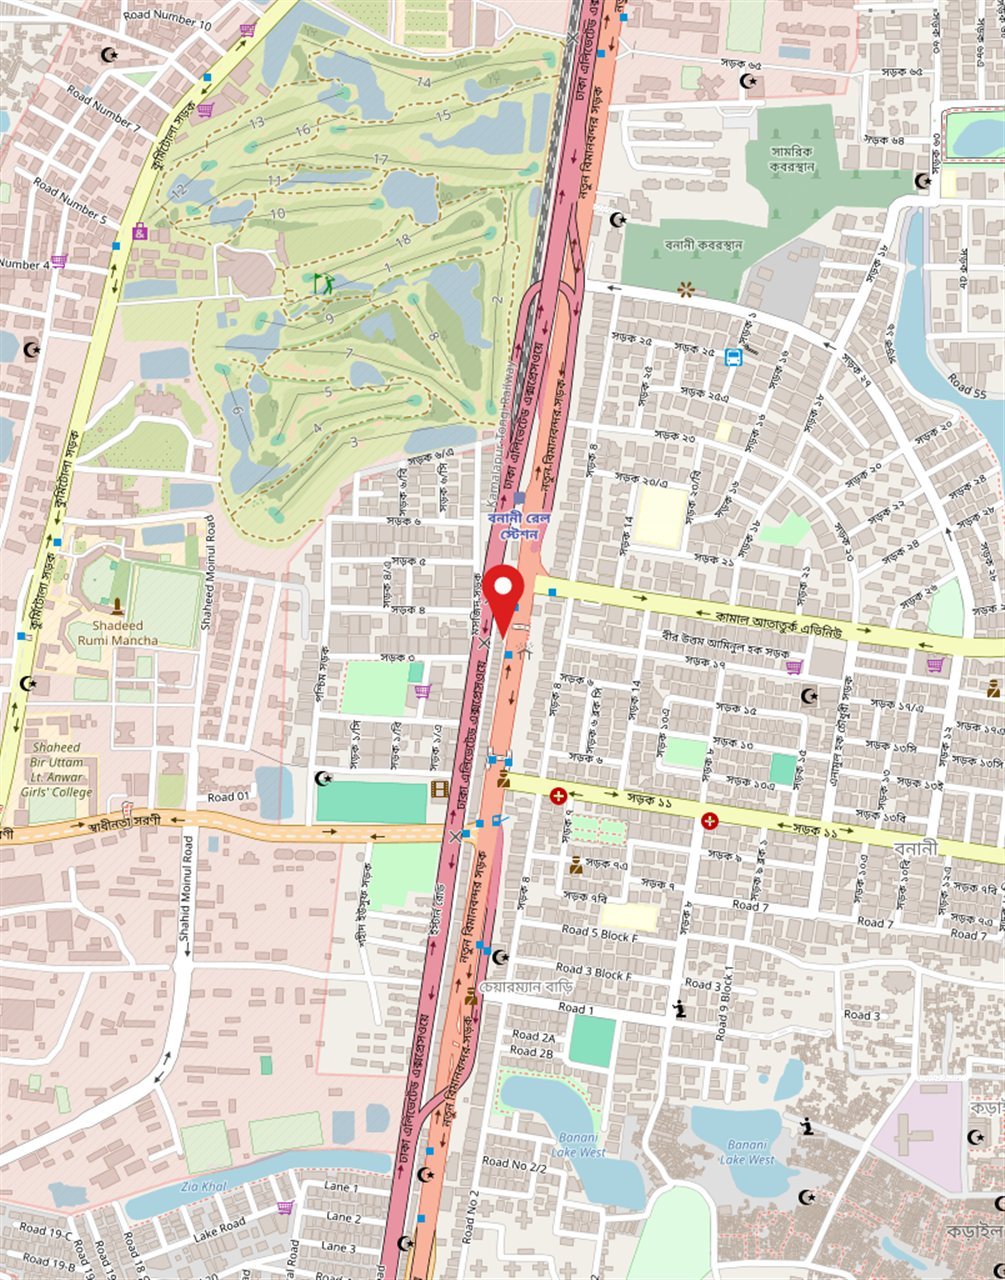
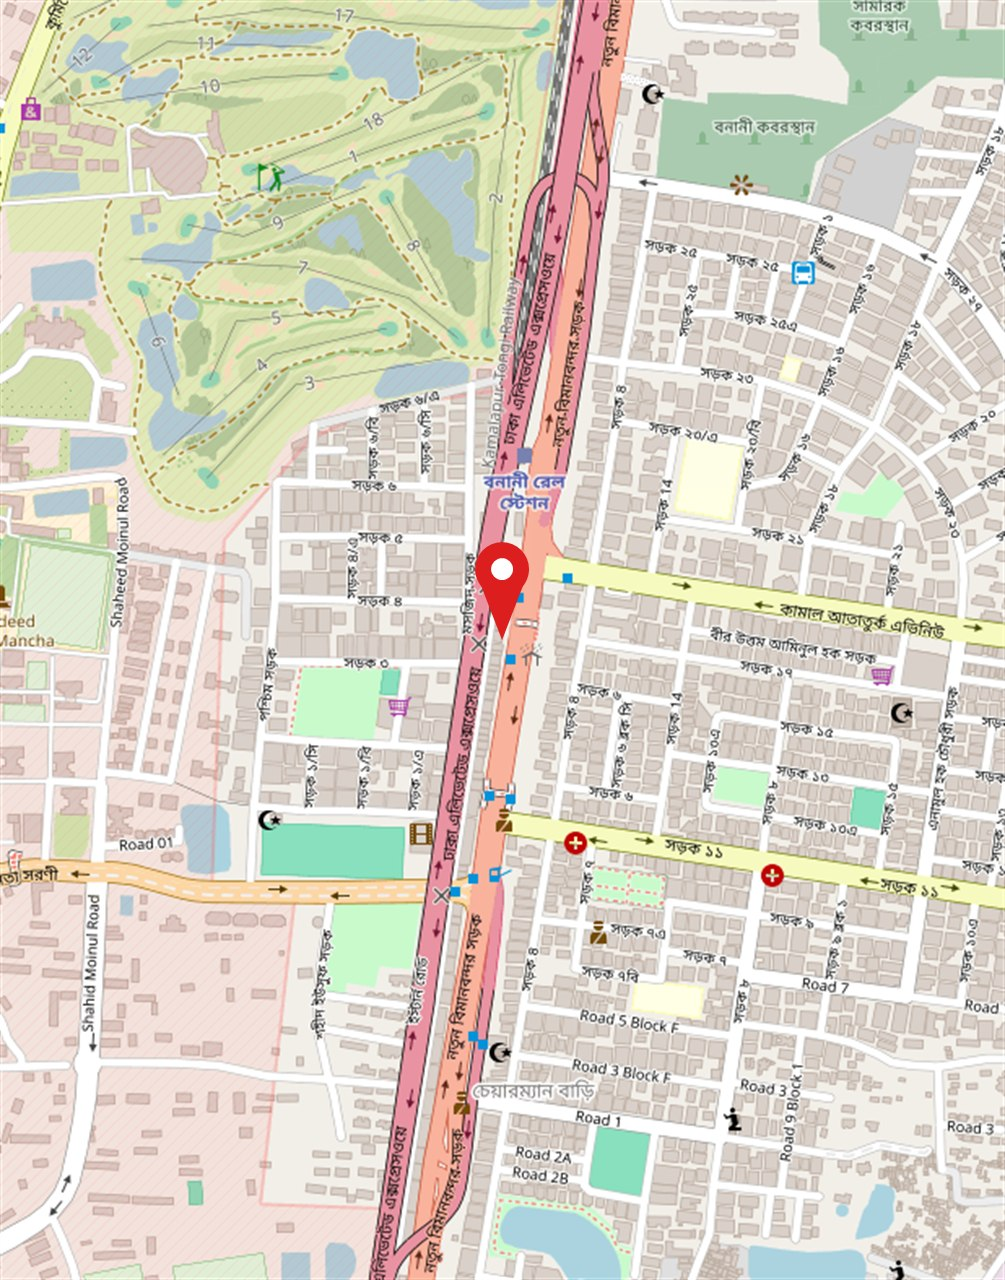
Contact map: 30% closer again so road names are readable

diff --git a/CLAUDE.md b/CLAUDE.md
@@ -211,4 +211,4 @@ Not designed yet (discuss with owner): profile dashboard/edit, search results, s
 - OWNER RULE: whenever a section/page area can be EMPTY (no data), do not decide alone to hide it or leave it blank: tell the owner what it will look like and ask whether/how much to hide.
 - Contact page: banner "আস্থার বন্ধনে একসাথে", crumbs "হোম / যোগাযোগ"; maroon intro text; 4 contact cards (address + "Holiday only Friday"; mobile + hotline + office hours; info@ + registration@; web + coordinates), data from `site.*` / `contact.*` content keys; "Driven by a Dream to Help People" + CEO photo (`public/assets/img/site/ceo.png`, Md. Sadrul Amin); light-teal band with the FAQ heading, feedback form on the LEFT and the FAQ list on the RIGHT (the grey box in Figma was a placeholder: assumed FAQ list, ask owner). Shared partials `partials/faq-list.php` and `partials/feedback-form.php` (home + contact); feedback returns to the page it came from (`return` field, whitelist in `FeedbackController::RETURN_TO`). Added beyond Figma: Banglish switch inside the feedback form. Typos fixed: "(+880 1761…" (missing bracket), "Joriru Kaj", "গ্রহনযোগ্য".
 - Contact page update (owner 2026-10-23): the RIGHT box next to the feedback form is the Google Map picture (same `map-location.png` link as the home page, opens Google Maps), not the FAQ list; height = the form's height (min 931px). The FAQ heading/text above stays as in Figma.
-- Contact map (owner 2026-10-23): the home-page map picture was too close, so the contact box uses `public/assets/img/site/map-contact.jpg`: OpenStreetMap tiles z16 (stitched, red pin drawn, owner later asked for 25% closer with the pin in the CENTRE (pin at 50%)), credit line "© OpenStreetMap contributors" (link to openstreetmap.org/copyright — required by the licence, keep it); click opens Google Maps at the coordinates. To change the look/zoom later, give a new portrait image (any map) with the same name.
+- Contact map (owner 2026-10-23): the home-page map picture was too close, so the contact box uses `public/assets/img/site/map-contact.jpg`: OpenStreetMap tiles z16 (stitched, red pin drawn, owner later asked for 25% closer, then 30% more, with the pin in the CENTRE (pin at 50%) so the road names can be read), credit line "© OpenStreetMap contributors" (link to openstreetmap.org/copyright — required by the licence, keep it); click opens Google Maps at the coordinates. To change the look/zoom later, give a new portrait image (any map) with the same name.
